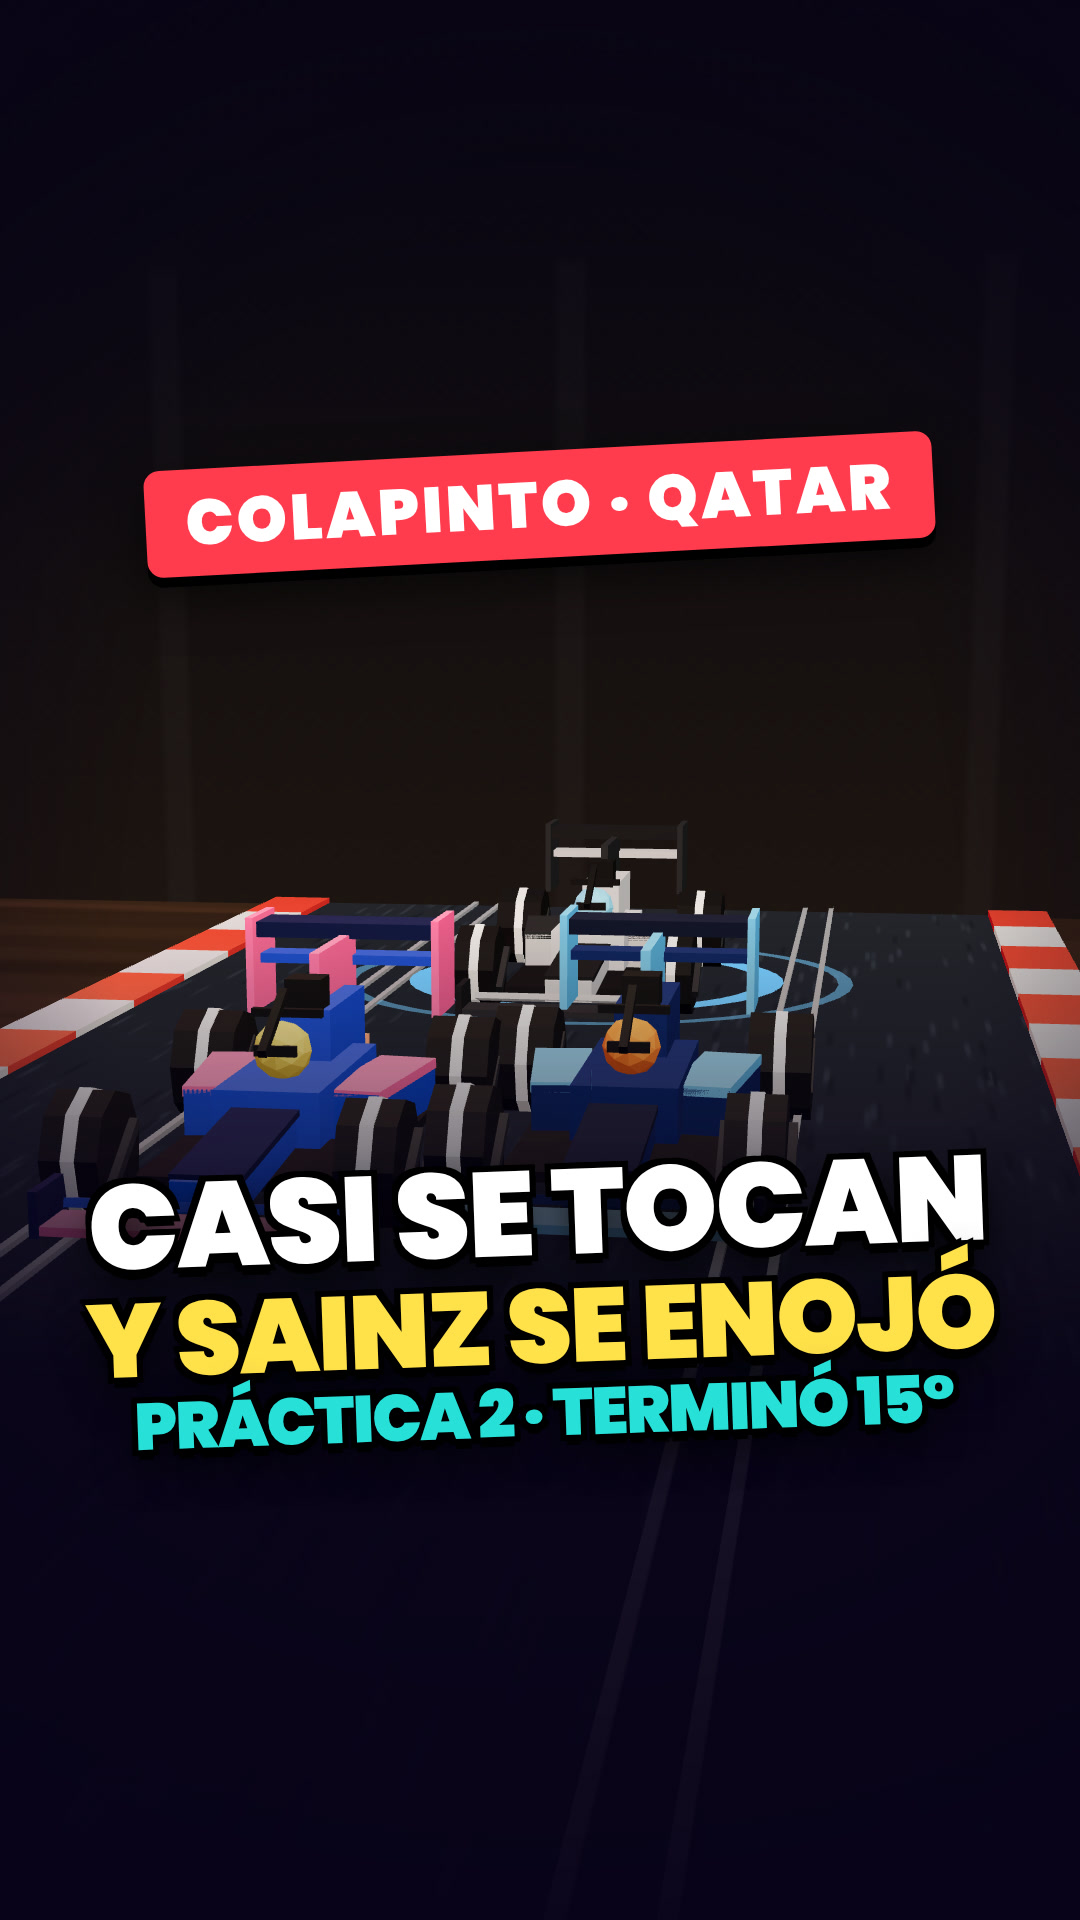
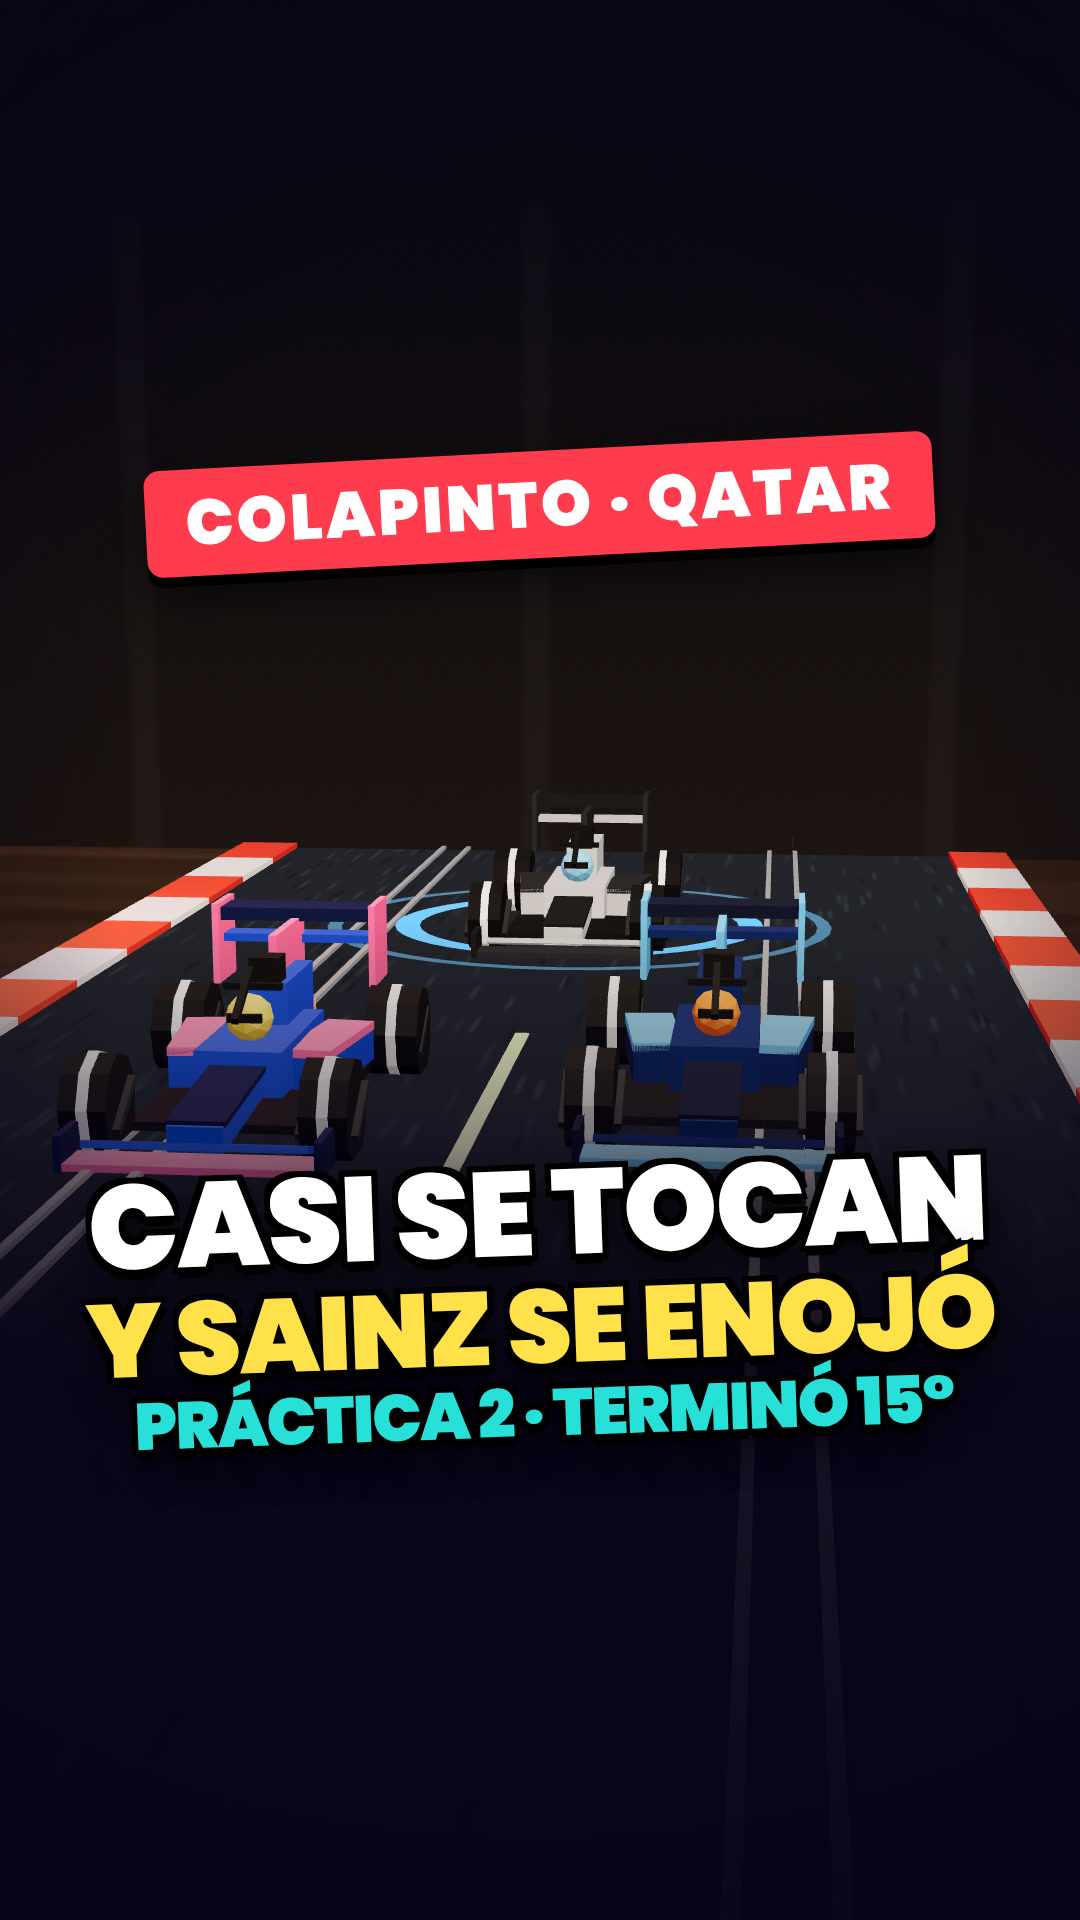
fábrica: avances
Claude-Session: https://claude.ai/code/session_01Y7nuwRRu4GGnUKyWwGBG5W

Changed region(s): [[0.0, 0.4062, 1.0, 0.6562], [0.0, 0.6562, 0.0306, 0.6875]]

diff --git a/videos/colapinto-fp2-qatar/beats.ts b/videos/colapinto-fp2-qatar/beats.ts
@@ -57,13 +57,13 @@ export const BEATS: BeatSpec[] = [
     overlays: [P1('CURVA 1', '1,'), P2('COLAPINTO (ALPINE) POR ADENTRO', 'adentro'), FUENTE] },
 
   // 3. Casi se tocan, y atrás Russell soltó por radio: «Oh, wow».  (de frente, al ras: rueda con rueda; atrás el plateado)
-  { id: 'b03', set: 'room', cam: { from: [1.0, 1.35, 6.3], to: [0.45, 1.3, 5.6], look: [0, 0.0, -0.6], lookTo: [0, 0.05, -0.8], fov: 46 }, keywords: ['tocan,', 'Russell', '«Oh, wow».'],
+  { id: 'b03', set: 'room', cam: { from: [0.8, 1.25, 5.5], to: [0.35, 1.2, 4.9], look: [0, -0.15, -0.6], lookTo: [0, -0.1, -0.8], fov: 46 }, keywords: ['tocan,', 'Russell', '«Oh, wow».'],
     actors: [
       ST('mesa', { speed: 6 }),
-      { type: 'f1', pos: [-0.62, 0, 0.5], s: 0.45, p: { ...COLA, speed: 16 } },
-      { type: 'f1', pos: [0.62, 0, 0.35], s: 0.45, p: { ...SAI, speed: 16 } },
-      { type: 'f1', pos: [0.0, 0, -1.9], s: 0.45, p: { ...RUS, speed: 16 } },
-      { type: 'box', pos: [0.0, 0.026, 0.45], at: 'tocan', enter: 'grow', p: { size: [0.04, 0.004, 1.6], color: LIME, glow: true, ei: 1.2 } },
+      { type: 'f1', pos: [-0.5, 0, 0.5], s: 0.38, p: { ...COLA, speed: 16 } },
+      { type: 'f1', pos: [0.5, 0, 0.35], s: 0.38, p: { ...SAI, speed: 16 } },
+      { type: 'f1', pos: [0.0, 0, -1.9], s: 0.38, p: { ...RUS, speed: 16 } },
+      { type: 'box', pos: [0.0, 0.026, 0.45], at: 'tocan', enter: 'grow', p: { size: [0.035, 0.004, 1.4], color: LIME, glow: true, ei: 1.2 } },
       { type: 'ring', pos: [0.0, 0.03, -1.9], at: 'Russell', p: { r: 0.45, color: '#7ad0ff' } },
       { type: 'radio', pos: [0.0, 0.45, -1.8], at: 'radio', p: { color: AMBER, r: 0.25, loops: 4 } },
     ],

diff --git a/videos/colapinto-fp2-qatar/guion.md b/videos/colapinto-fp2-qatar/guion.md
@@ -32,21 +32,21 @@ Leclerc, Briatore, los minutos extra ni Mercedes.
 
 ## Guion final (una línea por plano)
 
+**Toma final (27/11, productor):** 11 planos, 53,7 s. Se sacaron el plano 5 («Puede ser», queda en la descripción) y el 10 (Sainz 16°) porque la primera toma duraba 65,8 s. Las secciones de abajo conservan la numeración original de 13 planos.
+
 | # | Tiempo aprox. | Frase |
 |---|---|---|
 | 1 | 0:00 | «Corre como si fuera domingo». Carlos Sainz lo dijo de Colapinto, después de la segunda práctica de Qatar. |
-| 2 | 0:05 | En la curva 1, Colapinto se le tiró por adentro y lo pasó. |
-| 3 | 0:10 | Casi se tocan, y atrás Russell soltó por radio: «Oh, wow». |
-| 4 | 0:13 | Sainz dijo que ya van un par de viernes así. |
-| 5 | 0:17 | Le preguntaron si va a hablar con él. Contestó: «Puede ser». |
-| 6 | 0:20 | Pero en la tabla terminó en el puesto 15, a más de dos segundos y medio del primero. |
-| 7 | 0:26 | Tuvo problemas de frenos, y su vuelta con gomas blandas, las más rápidas, quedó a medias. |
-| 8 | 0:32 | La cortó la bandera roja de Gasly, su compañero, enterrado en la leca. |
-| 9 | 0:36 | Gasly dio apenas 14 vueltas, y aun así terminó casi un segundo adelante. |
-| 10 | 0:40 | Y Sainz, el que se quejó, quedó justo atrás, en el puesto 16. |
-| 11 | 0:45 | El viernes anterior, en Las Vegas, el enojado era Colapinto, que pidió por radio: «Lo tienen que penalizar». |
-| 12 | 0:51 | El sábado a las tres de la tarde clasifican. Ahí sí, todos corren como si fuera domingo. |
-| 13 | 0:56 | En una práctica, ¿vos te tirabas por adentro? Contalo abajo. |
+| 2 | 0:06 | En la curva 1, Colapinto se le tiró por adentro y lo pasó. |
+| 3 | 0:09 | Casi se tocan, y atrás Russell soltó por radio: «Oh, wow». |
+| 4 | 0:14 | Sainz dijo que ya van un par de viernes así. |
+| 5 | 0:16 | Pero en la tabla terminó en el puesto 15, a más de dos segundos y medio del primero. |
+| 6 | 0:21 | Tuvo problemas de frenos, y su vuelta con gomas blandas, las más rápidas, quedó a medias. |
+| 7 | 0:27 | La cortó la bandera roja de Gasly, su compañero, enterrado en la leca. |
+| 8 | 0:31 | Gasly dio apenas 14 vueltas, y aun así terminó casi un segundo adelante. |
+| 9 | 0:36 | El viernes anterior, en Las Vegas, el enojado era Colapinto, que pidió por radio: «Lo tienen que penalizar». |
+| 10 | 0:43 | El sábado a las tres de la tarde clasifican. Ahí sí, todos corren como si fuera domingo. |
+| 11 | 0:49 | En una práctica, ¿vos te tirabas por adentro? Contalo abajo. |
 
 ## PRONUNCIACIÓN A CONFIRMAR
 
@@ -66,6 +66,9 @@ el productor genera variantes numeradas para que se elija de oído.
 
 Números: con `[dicho|mostrado]` (1, 15, 14, 16). "Dos segundos y medio", "casi un segundo" y "las tres de la tarde" se dicen
 y se muestran igual; la cifra exacta va en placa.
+
+
+**Resultado de la prueba (productor, 27/11):** Sainz `[Sáintz|Sainz]` (probada, 92 %); «Oh, wow» `[«Oh, guau».|«Oh, wow».]` (probada, 78 %, con las comillas dentro del grupo); Russell `[Russell|Russell]` (forma del glosario; Whisper oye «Rossell», 44 %: SIN RESOLVER); Qatar `[Qatar.|Qatar.]` (glosario; seguridad 54 %: SIN RESOLVER); Gasly `[Gaslý|Gasly]` (glosario).
 
 ## Hoja de datos y fuentes
 
